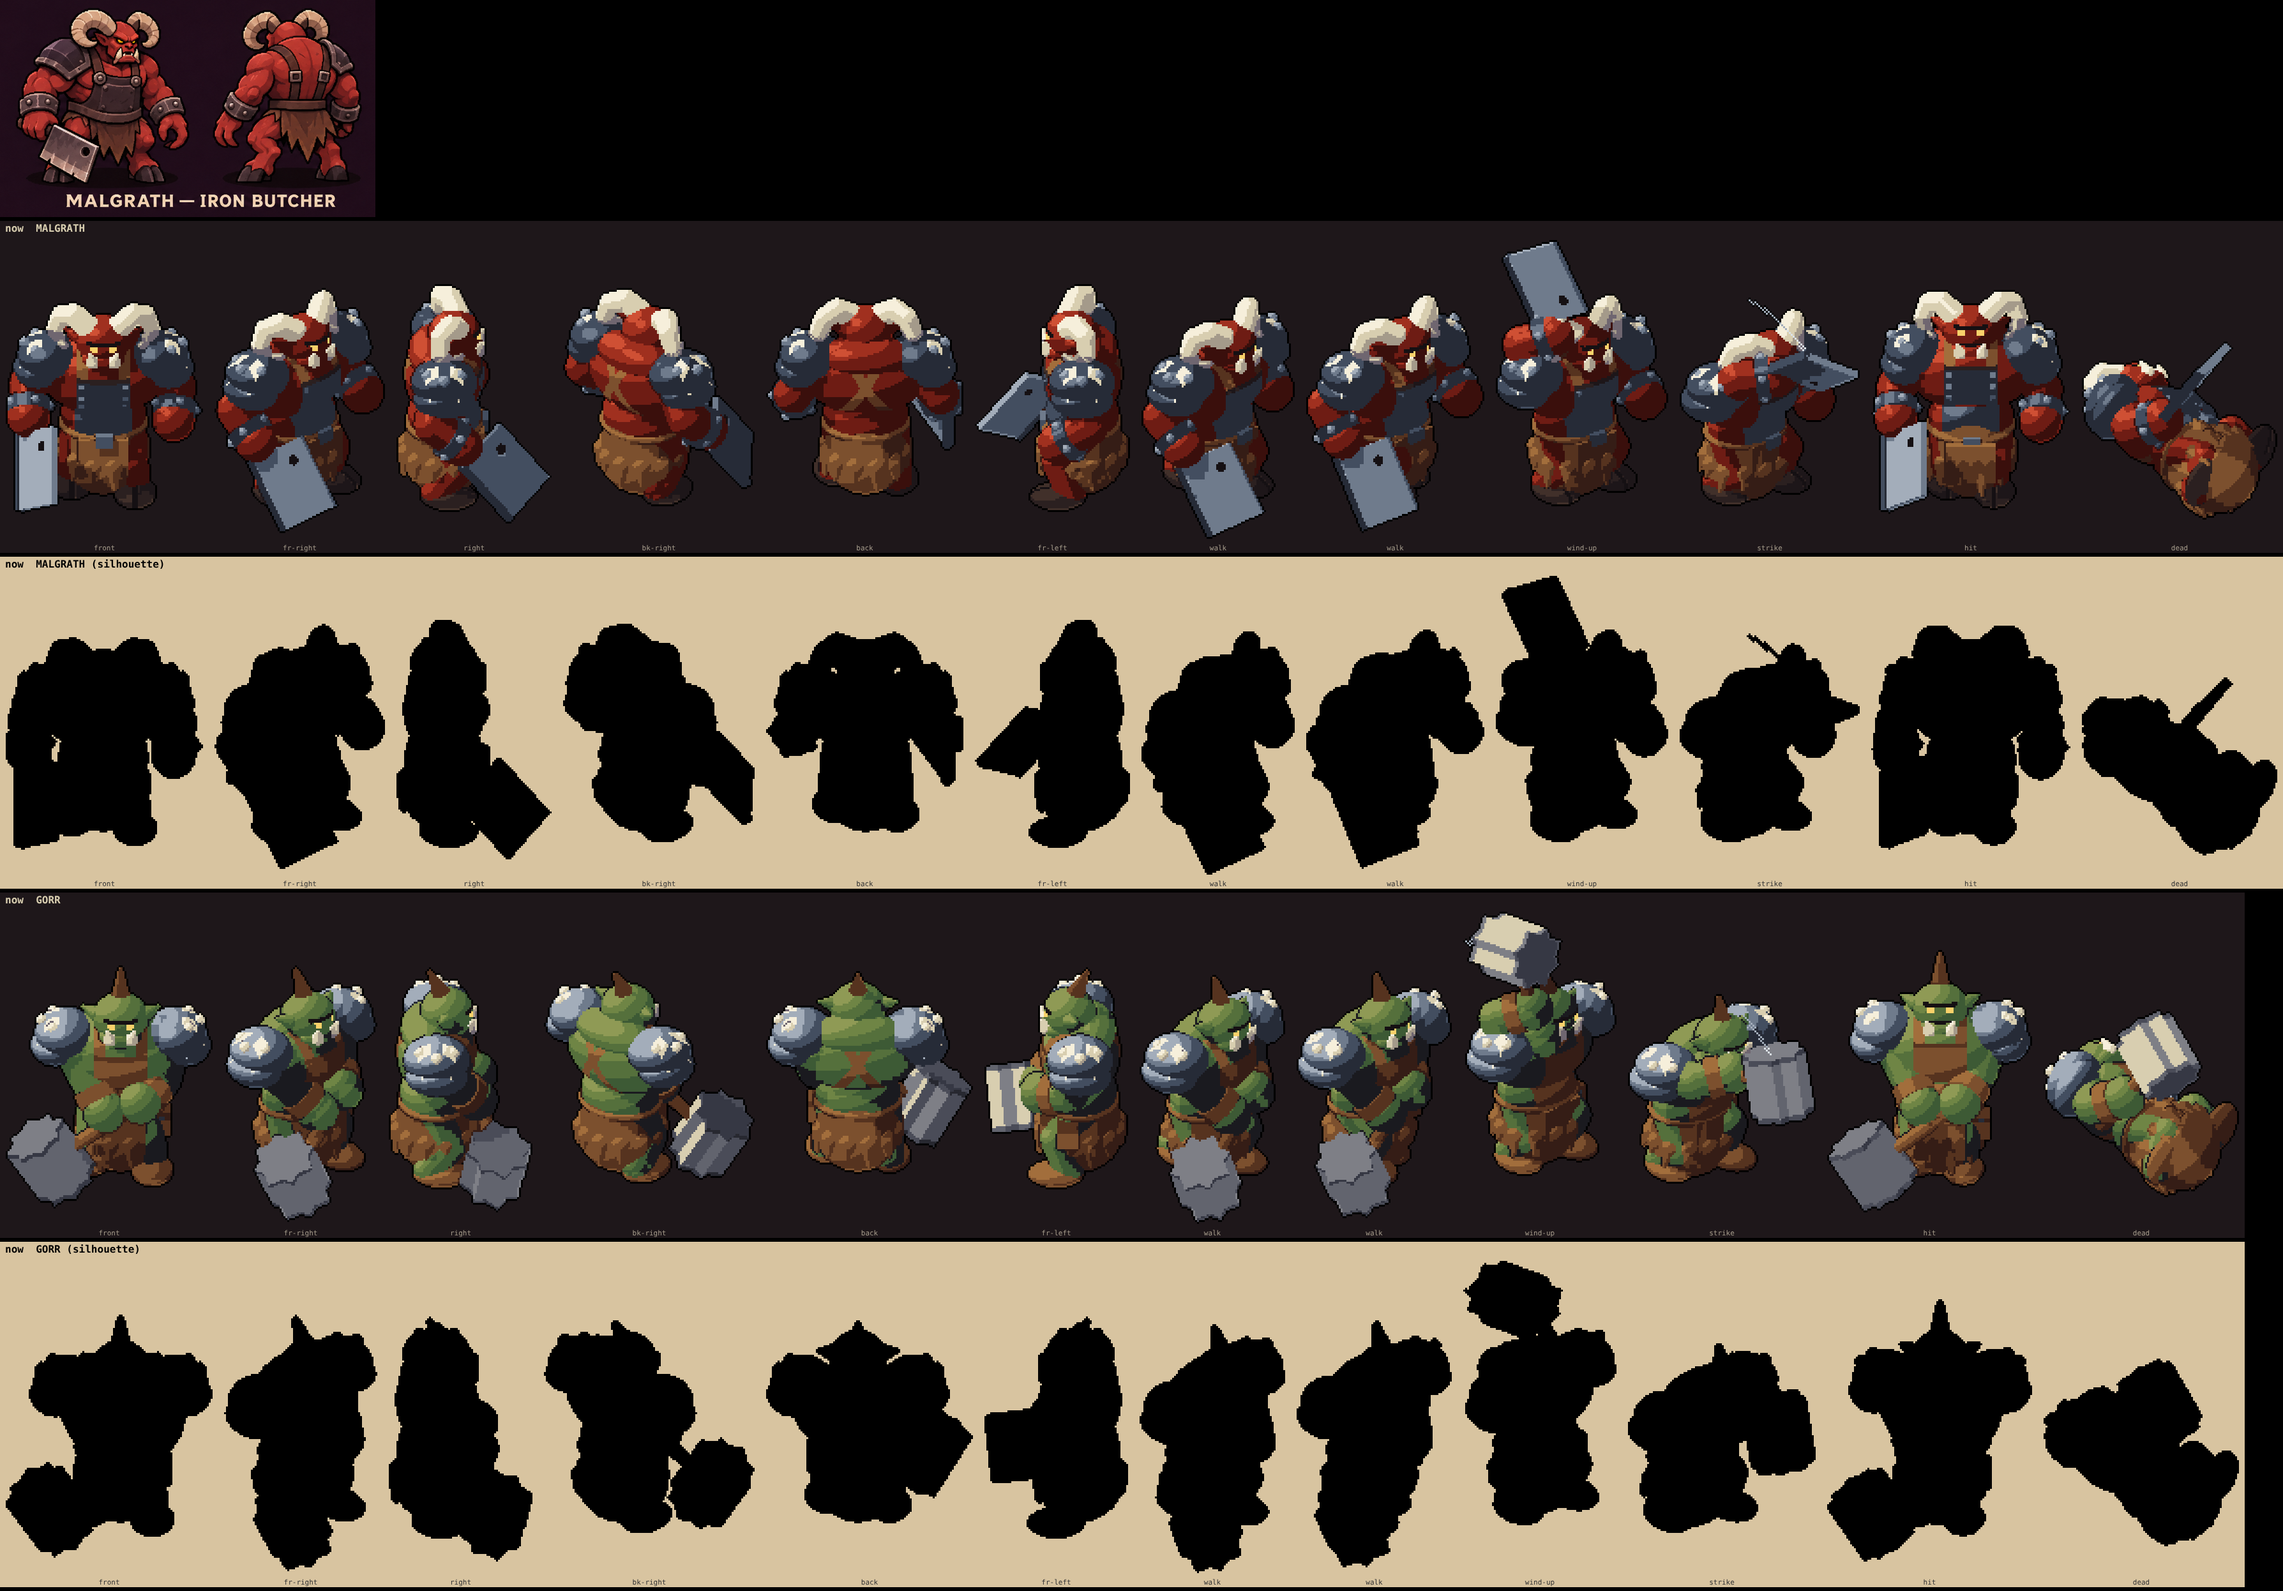
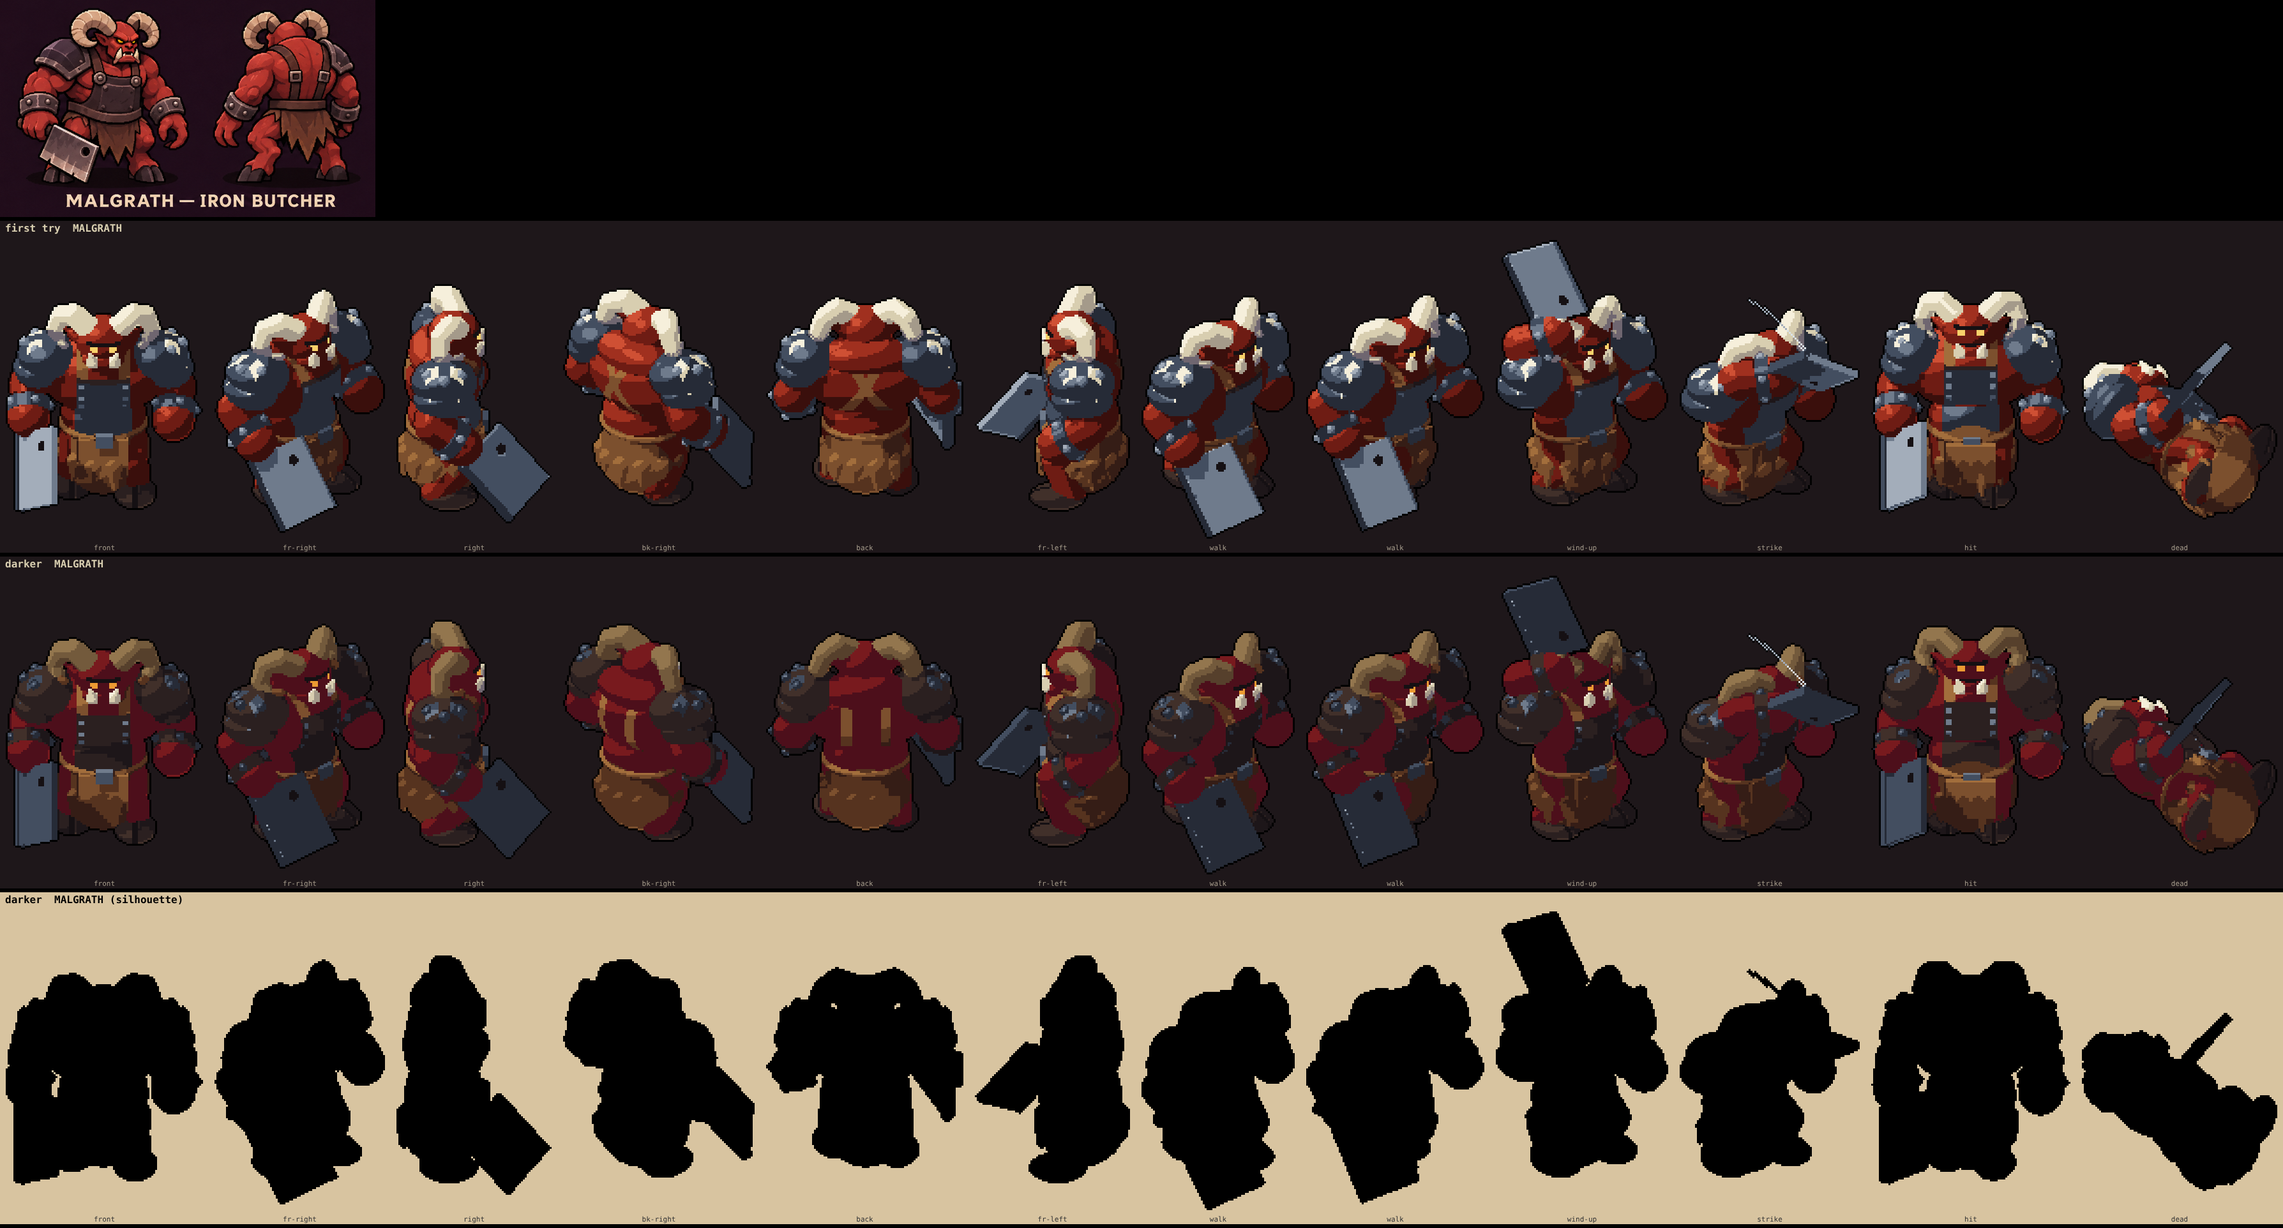
Art B6: Malgrath darker and grimmer (blood-red hide, dark horns, brown-black iron, glowing eyes)
Claude-Session: https://claude.ai/code/session_01QbDoFLJr5rX34eWgCEDPgG

diff --git a/diablo-clone/game/js/monsters.js b/diablo-clone/game/js/monsters.js
@@ -1153,7 +1153,7 @@ function houndRig(look, st) {
 const OGRE_B = { hipH: 12, thigh: 6.4, shin: 6, ankle: 1.4, spine: 9, shW: 8.4, shZ: 3, neck: 10.5, upper: 7, fore: 6.5, hipW: 4, stride: 5, lift: 2.4, duty: 0.55, bob: 0.8, sway: 0.6, runLean: 0.1, counter: 0.1, stance: 1.5 };
 function ogreRig(look, st) {
   const MG = !!look.malg;   // art B6: Malgrath the Iron Butcher (infernal boss): Gorr's build in red hide, an iron apron, ram horns, hooves and a cleaver
-  const B = OGRE_B, J = bipedJoints(B, st), r = new Rig(), { fwd, sideR, up } = J, skin = MG ? M.FLESH : M.OGRE;
+  const B = OGRE_B, J = bipedJoints(B, st), r = new Rig(), { fwd, sideR, up } = J, skin = MG ? M.BLOODY : M.OGRE;   // (b6 v2) deep blood red, not bright brick
   const GR = !!look.gorr || MG, IJ = !!look.ironjaw;   // art B4: Gorr the Minebreaker (boss) and the Ironjaw Enforcer (elite)
   for (const [hip, knee, ank] of [[J.hipL, J.kneeL, J.ankL], [J.hipR, J.kneeR, J.ankR]]) {
     r.cone(hip, knee, 3.4, 3.0, skin); r.cone(knee, ank, 3.0, 2.6, skin);
@@ -1199,18 +1199,19 @@ function ogreRig(look, st) {
     // art B4, Gorr: leather overalls (a bib up the chest, braces over the shoulders that cross on the back),
     // a twisted rope belt, a ragged brown apron skirt front and back, a pouch at the left hip
     const oc = V.mad(J.chest, up, 1.0);
-    r.ell(oc, [6.9, 10.9, 6.9], MG ? M.IRON : M.LEATHER, lf, { mf: p => { const q = V.sub(p, oc), f2 = V.dot(q, fwd), s2 = V.dot(q, sideR), z2 = V.dot(q, up);
+    r.ell(oc, [6.9, 10.9, 6.9], MG ? M.CLOTH_DARK : M.LEATHER, lf, { mf: p => { const q = V.sub(p, oc), f2 = V.dot(q, fwd), s2 = V.dot(q, sideR), z2 = V.dot(q, up);
       if (f2 > 1.2 && Math.abs(s2) < 4.8 && z2 < 2.4) return MG ? ((Math.abs(Math.abs(s2) - 3.9) < 0.45 && Math.abs(((z2 + 20) % 2.2) - 1.1) < 0.45) ? M.CHAIN : z2 > 1.6 ? M.CLOTH_DARK : 0) : z2 > 1.6 ? M.HAIR : 0;   // the bib, its top hem ((b6) Malgrath: iron, riveted down both edges)
       if (f2 > -1 && z2 >= 1.6 && Math.abs(Math.abs(s2) - 3.8) < 1.0) return MG ? M.LEATHER : 0;   // the braces in front
+      if (MG && f2 <= -1) return Math.abs(Math.abs(s2) - 3.4) < 0.9 ? M.LEATHER : skin;   // (b6 v2) two straight straps down the back
       if (f2 <= -1 && (Math.abs(s2 - (z2 - 1) * 0.62) < 1.0 || Math.abs(s2 + (z2 - 1) * 0.62) < 1.0)) return MG ? M.LEATHER : 0;   // crossed on the back
       return skin; } });
-    r.ell(V.mad(J.pelvis, up, 2), [6.3, 7.3, 5.2], MG ? M.IRON : M.LEATHER, lf, { mf: p => { const q = V.sub(p, J.pelvis); return V.dot(q, fwd) > 0.6 && Math.abs(V.dot(q, sideR)) < 5.0 ? 0 : skin; } });   // the bib carries on down over the belly
+    r.ell(V.mad(J.pelvis, up, 2), [6.3, 7.3, 5.2], MG ? M.CLOTH_DARK : M.LEATHER, lf, { mf: p => { const q = V.sub(p, J.pelvis); return V.dot(q, fwd) > 0.6 && Math.abs(V.dot(q, sideR)) < 5.0 ? 0 : skin; } });   // the bib carries on down over the belly
     if (MG) { r.ell(belt, [6.7, 7.7, 1.4], M.LEATHER, lf); r.box(V.mad(belt, fwd, 7.0), [0.5, 1.5, 1.1], M.IRON, lf, { bias: 1 }); }   // (b6) a plain belt and an iron buckle
     else r.ell(belt, [6.7, 7.7, 1.4], M.STRAWM, lf, { mf: p => { const q = V.sub(p, belt), ang = Math.atan2(V.dot(q, sideR), V.dot(q, fwd)); return ((ang * 7 + V.dot(q, up) * 1.4) % 1 + 1) % 1 < 0.35 ? M.CLOTH_TAN : 0; } });   // the rope, twisted
     const sk = V.mad(J.pelvis, up, 0.2), hem = V.add(J.pelvis, [0, 0, -5.6]);
     r.group(() => {
-      r.cone(sk, hem, 6.4, 7.4, M.LEATHER);
-      for (let k = 0; k < 12; k++) { const a = (k + 0.5) / 12 * Math.PI * 2, d = V.add(V.mul(fwd, Math.cos(a)), V.mul(sideR, Math.sin(a))), b0 = V.mad(hem, d, 6.6); r.cone(V.mad(b0, up, 0.8), V.add(V.mad(b0, d, 0.8), V.mul(up, -1.8 - (k % 3) * 0.9)), 1.7, 0.3, M.LEATHER); }
+      r.cone(sk, hem, 6.4, 7.4, MG ? M.HAIR : M.LEATHER);
+      for (let k = 0; k < 12; k++) { const a = (k + 0.5) / 12 * Math.PI * 2, d = V.add(V.mul(fwd, Math.cos(a)), V.mul(sideR, Math.sin(a))), b0 = V.mad(hem, d, 6.6); r.cone(V.mad(b0, up, 0.8), V.add(V.mad(b0, d, 0.8), V.mul(up, -1.8 - (k % 3) * 0.9)), 1.7, 0.3, MG ? M.HAIR : M.LEATHER); }
     });
     r.box(V.add(V.mad(J.pelvis, fwd, 6.4), V.mul(up, -3.2)), [0.6, 4.2, 3.6], M.LEATHER, lf, { mf: p => { const q = V.sub(p, J.pelvis), z2 = V.dot(q, up), s2 = V.dot(q, sideR); return z2 < -5.6 + Math.abs(Math.sin(s2 * 1.3)) * 1.2 ? M.HAIR : 0; } });   // the front apron flap, torn at the hem
     const pc = V.add(V.add(J.pelvis, V.mul(sideR, -7.0)), V.add(V.mul(fwd, 2.2), V.mul(up, -2.4)));
@@ -1236,11 +1237,11 @@ function ogreRig(look, st) {
   // art B4: riveted steel pauldrons, layered: a dome over a lower lame (Gorr both shoulders, Ironjaw the right one)
   if (GR || IJ) for (const [sh, sd] of GR ? [[J.shL, -1], [J.shR, 1]] : [[J.shR, 1]]) {
     const pk = GR ? 1.15 : 1, c = V.add(V.mad(sh, up, 1.6 * pk), V.mul(sideR, sd * 1.2)), fr = frameAlong(fwd, up);
-    const riv = cc => p => { const n = V.norm(V.sub(p, cc)), a = V.dot(n, fwd), b = V.dot(n, sideR) * sd, z2 = V.dot(n, up); return z2 > 0.25 && Math.abs(Math.abs(a) - 0.45) < 0.2 && Math.abs(b - 0.5) < 0.24 ? M.BONE : 0; };
+    const riv = cc => p => { const n = V.norm(V.sub(p, cc)), a = V.dot(n, fwd), b = V.dot(n, sideR) * sd, z2 = V.dot(n, up); return z2 > 0.25 && Math.abs(Math.abs(a) - 0.45) < 0.2 && Math.abs(b - 0.5) < 0.24 ? (MG ? M.IRON : M.BONE) : 0; };
     const c2 = V.add(V.mad(c, up, -2.2 * pk), V.mul(sideR, sd * 1.6 * pk));
-    r.ell(c2, [4.6 * pk, 3.6 * pk, 2.6 * pk], MG ? M.IRON : M.SLATE, fr, { mf: riv(c2) });
-    r.ell(c, [5.0 * pk, 4.6 * pk, 3.4 * pk], MG ? M.IRON : M.SLATE, fr, { mf: riv(c) });
-    for (const [u, v] of [[0.55, 0.45], [-0.55, 0.45], [0, 0.85]]) r.sph(V.add(c, V.add(V.add(V.mul(fwd, u * 4.6 * pk), V.mul(sideR, sd * v * 4.2 * pk)), V.mul(up, 2.2 * pk))), GR ? 0.95 : 0.8, MG ? M.CHAIN : M.BONE, { noShadow: true });   // big rivet heads
+    r.ell(c2, [4.6 * pk, 3.6 * pk, 2.6 * pk], MG ? M.CLOTH_DARK : M.SLATE, fr, { mf: riv(c2) });
+    r.ell(c, [5.0 * pk, 4.6 * pk, 3.4 * pk], MG ? M.CLOTH_DARK : M.SLATE, fr, { mf: riv(c) });
+    for (const [u, v] of [[0.55, 0.45], [-0.55, 0.45], [0, 0.85]]) r.sph(V.add(c, V.add(V.add(V.mul(fwd, u * 4.6 * pk), V.mul(sideR, sd * v * 4.2 * pk)), V.mul(up, 2.2 * pk))), GR ? 0.95 : 0.8, MG ? M.IRON : M.BONE, { noShadow: true });   // big rivet heads
   }
   if ((!grunt && !GR) || look.pads) for (const [sh, sd] of [[J.shL, -1], [J.shR, 1]]) {   // shoulder pads with spikes
     const c = grunt ? V.add(V.mad(sh, up, 1.4), V.mul(sideR, sd * 1.2)) : V.mad(sh, up, 1.2), pk = grunt ? 1.25 : 1;
@@ -1279,7 +1280,7 @@ function ogreRig(look, st) {
     const ak = look.grunt || GR ? 1.35 : 1;
     if (look.grunt && !look.pads) r.ell(V.add(V.mad(sh, up, 1.0), V.mul(sideR, s * 1.2)), [4.6, 4.6, 4.2], skin, frameAlong(fwd, up));   // a great shoulder muscle
     r.cone(sh, a.el, 2.8 * ak, 2.4 * ak, skin); r.cone(a.el, a.hand, 2.4 * ak, 2.2 * ak, skin); r.sph(a.hand, 2.7 * ak, skin);
-    if (MG) { const w0 = V.lerp(a.el, a.hand, 0.5), w1 = V.lerp(a.el, a.hand, 0.85), wd = V.norm(V.sub(w1, w0)); r.cyl(w0, w1, 2.3 * ak + 0.7, M.IRON); for (let k = 0; k < 5; k++) { const ang = k / 5 * Math.PI * 2, d = V.norm(V.add(V.mul(V.norm(V.cross(wd, up)), Math.cos(ang)), V.mul(V.norm(V.cross(wd, V.cross(wd, up))), Math.sin(ang)))); r.sph(V.mad(V.lerp(w0, w1, 0.5), d, 2.3 * ak + 0.7), 0.75, M.CHAIN, { noShadow: true }); } }   // (b6) studded iron wrist bands
+    if (MG) { const w0 = V.lerp(a.el, a.hand, 0.5), w1 = V.lerp(a.el, a.hand, 0.85), wd = V.norm(V.sub(w1, w0)); r.cyl(w0, w1, 2.3 * ak + 0.7, M.CLOTH_DARK); for (let k = 0; k < 5; k++) { const ang = k / 5 * Math.PI * 2, d = V.norm(V.add(V.mul(V.norm(V.cross(wd, up)), Math.cos(ang)), V.mul(V.norm(V.cross(wd, V.cross(wd, up))), Math.sin(ang)))); r.sph(V.mad(V.lerp(w0, w1, 0.5), d, 2.3 * ak + 0.7), 0.75, M.IRON, { noShadow: true }); } }   // (b6) studded iron wrist bands
     else if (!grunt || look.pads) r.cyl(V.lerp(a.el, a.hand, 0.3), V.lerp(a.el, a.hand, 0.7), grunt ? 2.3 * ak + 0.6 : GR ? 2.3 * ak + 0.5 : 2.6, M.LEATHER);   // bracers
     else if (IJ) r.cyl(V.lerp(a.el, a.hand, 0.55), V.lerp(a.el, a.hand, 0.78), 2.3 * ak + 0.5, M.LEATHER);   // art B4: leather wrist bands
   }
@@ -1303,7 +1304,7 @@ function ogreRig(look, st) {
     r.cone(V.mad(g, bd, -3), V.mad(g, bd, 2.5), 1.2, 1.2, M.WOOD);
     const fn = V.norm(V.add(fwd, V.mul(sideR, -0.55))), side = V.norm(V.sub(fn, V.mul(bd, V.dot(fn, bd)))), cf = [bd, side, V.norm(V.cross(bd, side))];
     const bc = V.add(V.mad(g, bd, 2.6 + 5.0 * ck), V.mul(side, 1.9 * ck));
-    r.box(bc, [5.0 * ck, 3.9 * ck, 0.6], MG ? M.CHAIN : M.BLADE, cf, MG ? { mf: p => { const q = V.sub(p, bc), u = V.dot(q, bd), v = V.dot(q, side); if (Math.hypot(u + 3.6, v - 2.2) < 0.9) return M.DARK; if (v < -3.9 * ck + 0.9 && Math.abs(((u + 20) % 2.6) - 1.3) < 0.5) return M.DSTEEL; return 0; } } : undefined);   // art B2: BLADE steel keeps its tone when turned from the light
+    r.box(bc, [5.0 * ck, 3.9 * ck, 0.6], MG ? M.IRON : M.BLADE, cf, MG ? { mf: p => { const q = V.sub(p, bc), u = V.dot(q, bd), v = V.dot(q, side); if (Math.hypot(u + 3.6, v - 2.2) < 0.9) return M.DARK; if (v < -3.9 * ck + 0.9 && Math.abs(((u + 20) % 2.6) - 1.3) < 0.5) return M.DSTEEL; return 0; } } : undefined);   // art B2: BLADE steel keeps its tone when turned from the light
     r.box(V.add(V.mad(g, bd, 2.6 + 5.0 * ck), V.mul(side, -1.8 * ck)), [5.0 * ck, 0.5, 0.9], M.IRON, cf);   // the thick back spine
   } else if (grunt) {   // a rough log club, its cut end showing pale wood rings
     const tip = V.mad(g, bd, 12);
@@ -1320,7 +1321,7 @@ function ogreRig(look, st) {
   if (sw && sw.smear && st.prev) smearArc(r, pivot, fwd, U, st.prev.a + (st.prev.ck || 0), sw.a + (sw.ck || 0), 8, 22);
   // head: big, a heavy brow over small yellow eyes, an underbite with two tusks, a top-knot
   const hd = grunt ? V.add(V.mad(J.head, fwd, 1.4), V.mul(up, -2.0)) : GR ? V.add(V.mad(J.head, fwd, 1.8), V.mul(up, -1.6)) : J.head, h0 = r.p.length;   // the grunts hunch, the head thrust forward and low
-  r.ell(hd, [4.6, 4.8, 4.2], skin, frameAlong(fwd, up), { mf: p => { const q = V.sub(p, hd), f2 = V.dot(q, fwd), s2 = Math.abs(V.dot(q, sideR)), z2 = V.dot(q, up); if (f2 > 2.4 && Math.abs(s2 - 1.7) < 0.55 && Math.abs(z2 - 0.4) < 0.5) return M.EYE_YEL; if (f2 > 2.4 && Math.abs(z2 - 1.3) < 0.35 && s2 < 3) return M.DARK; if (f2 > 3 && z2 < -1.6 && z2 > -2.6 && s2 < 2.2) return M.DARK; return 0; } });
+  r.ell(hd, [4.6, 4.8, 4.2], skin, frameAlong(fwd, up), { mf: p => { const q = V.sub(p, hd), f2 = V.dot(q, fwd), s2 = Math.abs(V.dot(q, sideR)), z2 = V.dot(q, up); if (f2 > 2.4 && Math.abs(s2 - 1.7) < 0.55 && Math.abs(z2 - 0.4) < 0.5) return MG ? M.FIREM : M.EYE_YEL; if (f2 > 2.4 && Math.abs(z2 - 1.3) < 0.35 && s2 < 3) return M.DARK; if (f2 > 3 && z2 < -1.6 && z2 > -2.6 && s2 < 2.2) return M.DARK; return 0; } });
   r.ell(V.add(V.mad(hd, fwd, 2.4), V.mul(up, -2.4)), [2.6, 3.8, 1.8], skin, frameAlong(fwd, up));   // jaw
   for (const s of [-1, 1]) {
     const b = IJ ? V.add(V.add(V.mad(hd, fwd, 3.9), V.mul(sideR, s * 3.0)), V.mul(up, -2.0)) : V.add(V.add(V.mad(hd, fwd, 4.2), V.mul(sideR, s * 1.8)), V.mul(up, -2.2));   // art B4: Ironjaw's tusks poke out either side of the jaw guard
@@ -1330,7 +1331,7 @@ function ogreRig(look, st) {
   if (MG) for (const s of [-1, 1]) {   // (b6) big ram horns: up out of the brow, curling back, down and forward round the ear
     const pts = [[0.4, 2.6, 2.6], [-0.8, 5.0, 4.4], [-2.4, 7.2, 3.6], [-2.6, 8.4, 0.8], [-0.8, 7.8, -1.4], [1.2, 6.6, -0.6]].map(([f, sd, z]) => V.add(V.add(V.mad(hd, fwd, f), V.mul(sideR, s * sd)), V.mul(up, z)));
     const rad = [2.1, 2.0, 1.8, 1.5, 1.1, 0.55];
-    r.group(() => { for (let k = 0; k < pts.length - 1; k++) r.cone(pts[k], pts[k + 1], rad[k], rad[k + 1], k > 2 ? M.HORN : M.BONE); });   // (b6) plain cream, darker toward the tip (fine ridges read as dots at this size)
+    r.group(() => { for (let k = 0; k < pts.length - 1; k++) r.cone(pts[k], pts[k + 1], rad[k], rad[k + 1], k > 3 ? M.HAIR : M.BOAR); });   // (b6 v2) dark tan horn, near-black tips   // (b6) plain cream, darker toward the tip (fine ridges read as dots at this size)
   }
   else r.cone(V.add(V.mad(hd, up, 3.6), V.mul(fwd, -1)), V.add(V.mad(hd, up, 8), V.mul(fwd, -3)), 1.6, 0.4, M.HAIR);   // top-knot
   if (IJ) {   // art B4: an iron jaw guard, a barred muzzle grille over the lower face, bolted at the sides

diff --git a/diablo-clone/art/ART_LOG.md b/diablo-clone/art/ART_LOG.md
@@ -448,3 +448,7 @@ pauldrons, leather braces crossed on the back, a belt with an iron buckle, studd
 cream ram horns curling round the ears (no top-knot), and a big notched cleaver with a hole (CHAIN grey) on the
 heavy chop swing. 4 passes kept (iron instead of blued steel; grey cleaver; plain horns; tighter curl).
 Placeholder stats near Gorr, `unique: true`, `minLevel: 99`. Other monsters cmp-identical; 304 frames, 0 edge hits.
+**Malgrath v2 (user: "colors are wrong, looks like an old lady demon, not scary or dark"):** skin BLOODY (deep blood
+red) instead of FLESH, horns BOAR tan with HAIR tips instead of cream, eyes glow FIREM, apron/pauldrons/wrist bands
+CLOTH_DARK (brown-black iron) with IRON rivets instead of slate with white rivets, HAIR skirt, an IRON cleaver, and
+two straight straps down the back instead of a crossed X. Others still cmp-identical; 0 edge hits.
